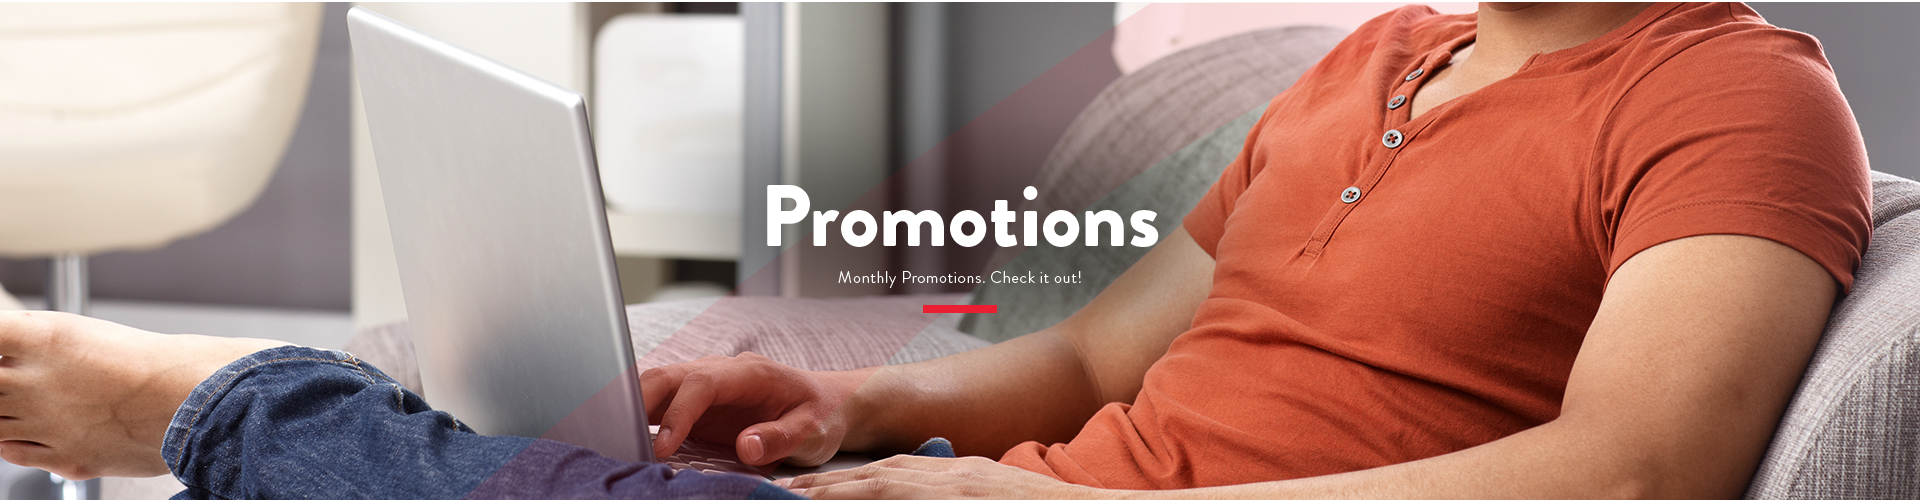
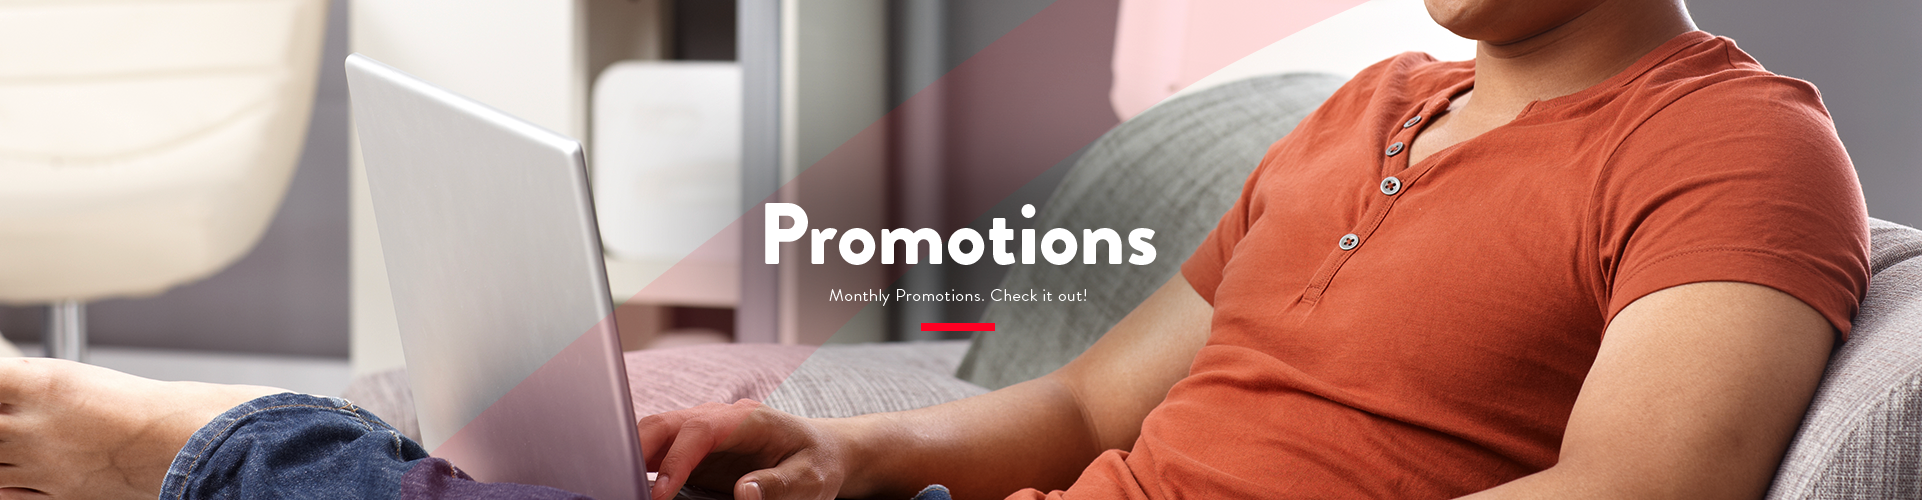
增加了bookingdetails页面的sarttrip和endtrip的时间，替换了三张图片

diff --git a/html/bookingdetails.html b/html/bookingdetails.html
@@ -144,7 +144,9 @@
                                 <img src="img/list-pic.jpg" alt="thumb" class="box-body-thumb"/>
                             </div>
                             <div class="col-md-12 ">
-                                <h5 class="bottom-border" style="font-size: 18px;font-weight: bold">Pickup Details</h5>
+                                <h5 class="bottom-border" style="font-size: 18px;font-weight: bold">
+                                    Pickup Details
+                                </h5>
 
                                 <div class="row">
                                     <div class="col-md-2 col-sm-2 col-xs-2 text-center">
@@ -174,8 +176,9 @@
 
                             </div>
                             <div class="col-md-12">
-                                <h5 class="bottom-border margin-top-20" style="font-size: 18px;font-weight: bold">Drop off
-                                    Details</h5>
+                                <h5 class="bottom-border margin-top-20" style="font-size: 18px;font-weight: bold">
+                                    Drop off Details
+                                </h5>
 
                                 <div class="row">
                                     <div class="col-md-2 col-sm-2 col-xs-2 text-center">
@@ -203,6 +206,43 @@
                                     </div>
                                 </div>
                             </div>
+
+                            <div class="col-md-12" ng-if="bookingMsg.list.TripStart != null">
+                                <h5 class="bottom-border" style="font-size: 18px;font-weight: bold">
+                                    Start Trip Time
+                                </h5>
+                                <div class="row">
+                                    <div class="col-md-2 col-sm-2 col-xs-2 text-center">
+                                        <p>
+                                            <i class="fa" ng-class="isDayOrNight(bookingMsg.list.TripStart)"></i>
+                                        </p>
+                                    </div>
+                                    <div class="col-md-10 col-sm-10 col-xs-10">
+                                        <p>
+                                            {{getFormatDateWithEnglishAppare(bookingMsg.list.TripStart)}}
+                                        </p>
+                                    </div>
+                                </div>
+                            </div>
+
+                            <div class="col-md-12" ng-if="bookingMsg.list.TripEnd != null">
+                                <h5 class="bottom-border" style="font-size: 18px;font-weight: bold">
+                                    End Trip Time
+                                </h5>
+                                <div class="row">
+                                    <div class="col-md-2 col-sm-2 col-xs-2 text-center">
+                                        <p>
+                                            <i class="fa" ng-class="isDayOrNight(bookingMsg.list.TripEnd)"></i>
+                                        </p>
+                                    </div>
+                                    <div class="col-md-10 col-sm-10 col-xs-10">
+                                        <p>
+                                            {{getFormatDateWithEnglishAppare(bookingMsg.list.TripEnd)}}
+                                        </p>
+                                    </div>
+                                </div>
+                            </div>
+
                             <div class="col-md-12">
                                 <div class="row">
                                     <div class="col-md-6 col-sm-6 col-xs-6">
